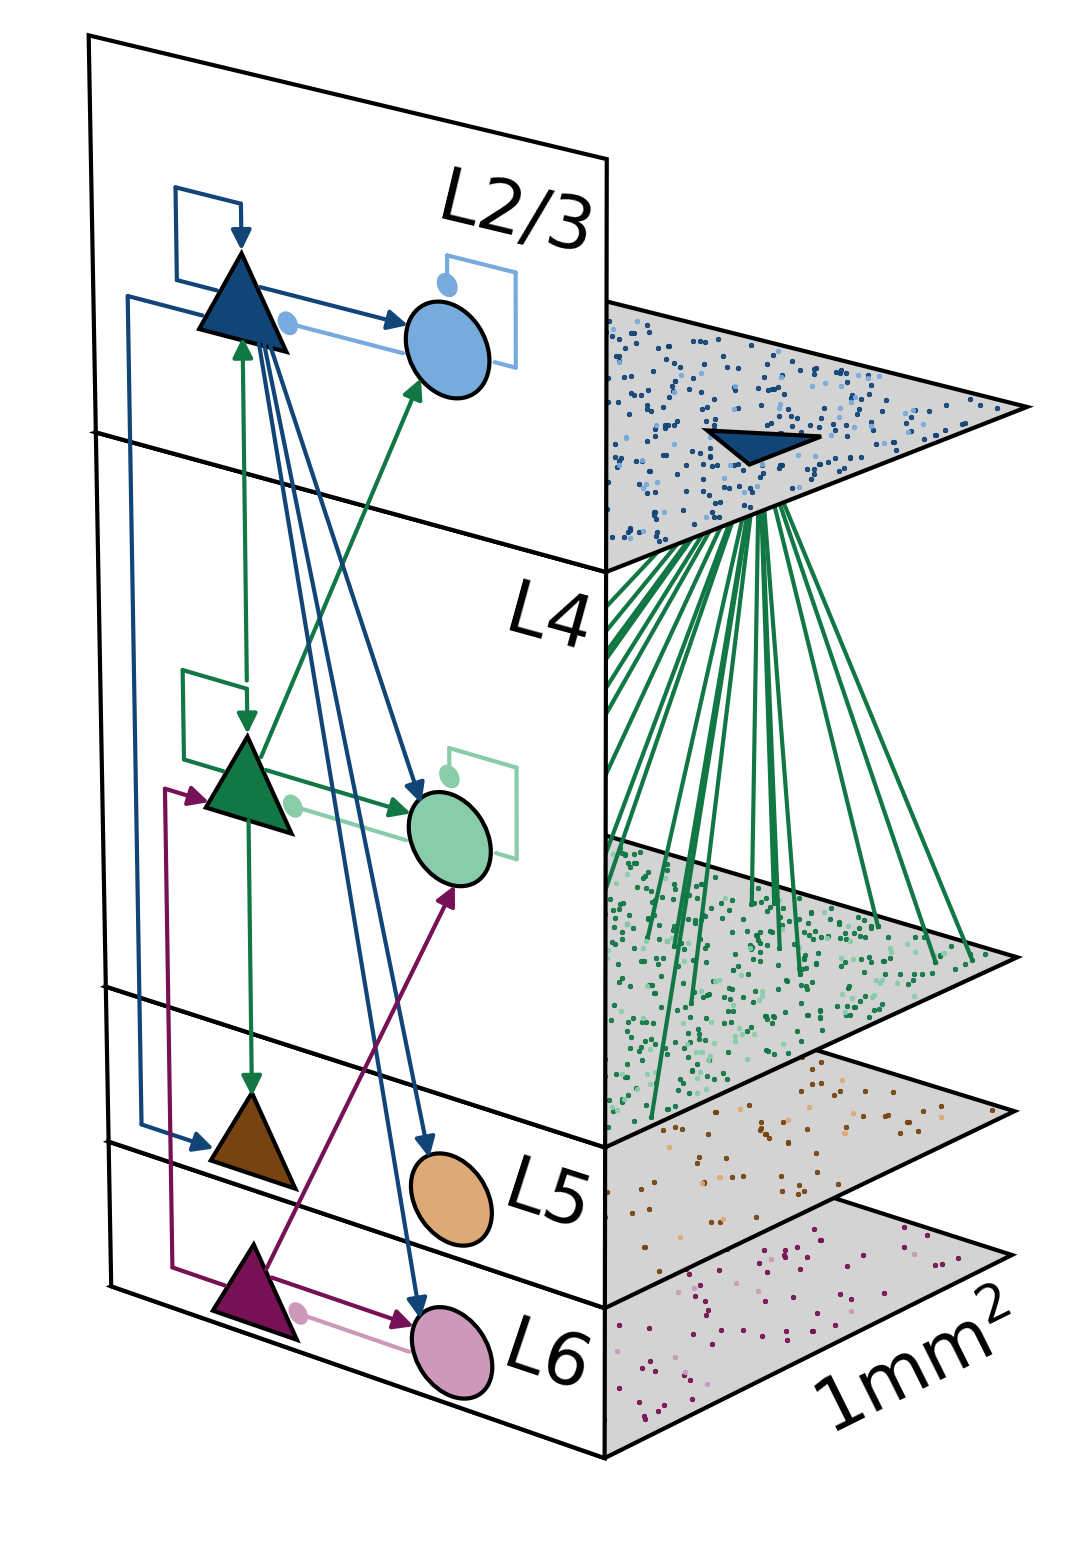
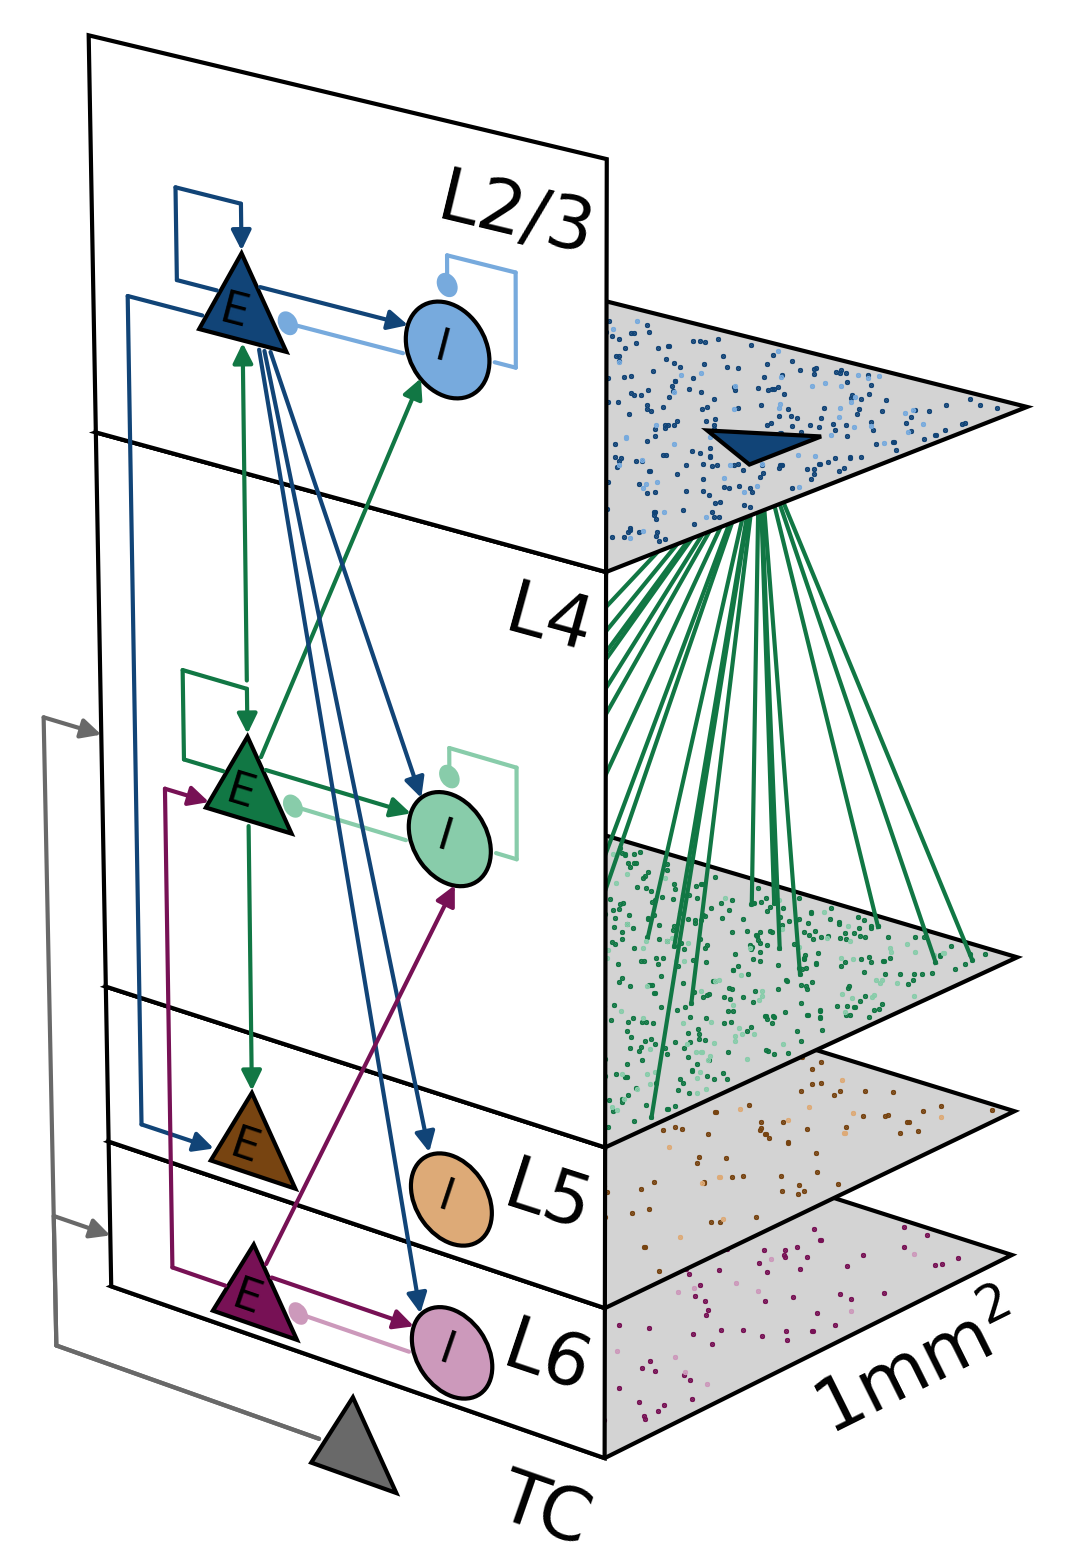
TC also for reference model

diff --git a/scripts/network_sketches.py b/scripts/network_sketches.py
@@ -236,6 +236,13 @@ def plot_network_model_sketch(gs, model='upscaled'):
         ax.add_patch(inh)
         art3d.pathpatch_2d_to_3d(inh, z=0, zdir="y")
 
+        ax.text(x=ctr_exc[0]-0.015, y=0, z=z_lctrs[i]-0.03, s='E', zdir='x',
+                fontsize=matplotlib.rcParams['font.size'] * 1.5,
+                horizontalalignment='center', verticalalignment='center')
+        ax.text(x=ctr_inh[0]-0.01, y=0, z=z_lctrs[i], s='I', zdir='x',
+                fontsize=matplotlib.rcParams['font.size'] * 1.5,
+                horizontalalignment='center', verticalalignment='center')
+
         # excitatory connections ###############################################
 
         # same layer, E -> E
@@ -300,7 +307,7 @@ def plot_network_model_sketch(gs, model='upscaled'):
 
     # L4E -> L2/3E
     ax.arrow3D(x=ctr_exc[0], y=0, z=z_lctrs[1] + 0.16,
-               dx=0, dy=0, dz=0.63,
+               dx=0, dy=0, dz=0.62,
                mutation_scale=mutation_scale,
                arrowstyle='-|>',
                color=pop_colors[2])
@@ -319,8 +326,8 @@ def plot_network_model_sketch(gs, model='upscaled'):
                color=pop_colors[2])
 
     # L4E -> L5E
-    ax.arrow3D(x=ctr_exc[0], y=0, z=z_lctrs[1] - 0.06,
-               dx=0, dy=0, dz=-0.53,
+    ax.arrow3D(x=ctr_exc[0], y=0, z=z_lctrs[1] - 0.07,
+               dx=0, dy=0, dz=-0.51,
                mutation_scale=mutation_scale,
                arrowstyle='-|>',
                color=pop_colors[2])
@@ -333,61 +340,60 @@ def plot_network_model_sketch(gs, model='upscaled'):
                                 color=pop_colors[2], sign='exc')
 
     # L2/3E -> L4I
-    ax.arrow3D(x=ctr_exc[0]+0.05, y=0, z=z_lctrs[0] - 0.06,
-               dx=0.3, dy=0, dz=-0.75,
+    ax.arrow3D(x=ctr_exc[0]+0.05, y=0, z=z_lctrs[0] - 0.07,
+               dx=0.3, dy=0, dz=-0.73,
                mutation_scale=mutation_scale,
                arrowstyle='-|>',
                color=pop_colors[0])
 
     # L2/3E -> L5I
-    ax.arrow3D(x=ctr_exc[0]+0.04, y=0, z=z_lctrs[0] - 0.06,
-               dx=0.32, dy=0, dz=-1.38,
+    ax.arrow3D(x=ctr_exc[0]+0.04, y=0, z=z_lctrs[0] - 0.07,
+               dx=0.32, dy=0, dz=-1.36,
                mutation_scale=mutation_scale,
                arrowstyle='-|>',
                color=pop_colors[0])
 
     # L2/3E -> L5I
-    ax.arrow3D(x=ctr_exc[0]+0.03, y=0, z=z_lctrs[0] - 0.06,
-               dx=0.31, dy=0, dz=-1.68,
+    ax.arrow3D(x=ctr_exc[0]+0.03, y=0, z=z_lctrs[0] - 0.07,
+               dx=0.31, dy=0, dz=-1.66,
                mutation_scale=mutation_scale,
                arrowstyle='-|>',
                color=pop_colors[0])
 
     # L6E -> L4I
-    ax.arrow3D(x=ctr_exc[0]+0.017, y=0, z=z_lctrs[3] + 0.02,
-               dx=0.4, dy=0, dz=0.84,
+    ax.arrow3D(x=ctr_exc[0]+0.017, y=0, z=z_lctrs[3] + 0.03,
+               dx=0.4, dy=0, dz=0.83,
                mutation_scale=mutation_scale,
                arrowstyle='-|>',
                color=pop_colors[6])
 
-    if model == 'upscaled':
-        # thalamus
-        y_tc = -0.15
-        tc = RegularPolygon(xy=(0.5, y_tc), radius=0.1, numVertices=3, orientation=0,
-                            facecolor=pop_colors[-1],
-                            edgecolor='k')
-        ax.add_patch(tc)
-        art3d.pathpatch_2d_to_3d(tc, z=0, zdir="y")
+    # thalamus #################################################################
+    y_tc = -0.15
+    tc = RegularPolygon(xy=(0.5, y_tc), radius=0.1, numVertices=3, orientation=0,
+                        facecolor=pop_colors[-1],
+                        edgecolor='k')
+    ax.add_patch(tc)
+    art3d.pathpatch_2d_to_3d(tc, z=0, zdir="y")
 
-        # TC to L4 and L6
-        draw_edge_arrow_xzplane(ax=ax, x=0.5-0.07, y=0, z=y_tc,
-                                xshift1=-0.55,
-                                zshift1=-y_tc +
-                                np.sum(layer_sizes[2:]) +
-                                layer_sizes[1]/2. + z_ctr_offset,
-                                xshift2=0.12, zshift2=0,
-                                color=pop_colors[-1], sign='exc')
-        draw_edge_arrow_xzplane(ax=ax, x=0.5-0.07, y=0, z=y_tc,
-                                xshift1=-0.55,
-                                zshift1=-y_tc +
-                                layer_sizes[3]/2. + z_ctr_offset,
-                                xshift2=0.12, zshift2=0,
-                                color=pop_colors[-1], sign='exc')
+    # TC to L4 and L6
+    draw_edge_arrow_xzplane(ax=ax, x=0.5-0.07, y=0, z=y_tc,
+                            xshift1=-0.55,
+                            zshift1=-y_tc +
+                            np.sum(layer_sizes[2:]) +
+                            layer_sizes[1]/2. + z_ctr_offset,
+                            xshift2=0.12, zshift2=0,
+                            color=pop_colors[-1], sign='exc')
+    draw_edge_arrow_xzplane(ax=ax, x=0.5-0.07, y=0, z=y_tc,
+                            xshift1=-0.55,
+                            zshift1=-y_tc +
+                            layer_sizes[3]/2. + z_ctr_offset,
+                            xshift2=0.12, zshift2=0,
+                            color=pop_colors[-1], sign='exc')
 
-        # thalamus label
-        ax.text(x=1.-0.01, y=0, z=0-0.01, zdir='x',
-                s='TC', fontsize=matplotlib.rcParams['font.size']*2.5,
-                horizontalalignment='right', verticalalignment='top')
+    # thalamus label
+    ax.text(x=1.-0.01, y=0, z=0-0.01, zdir='x',
+            s='TC', fontsize=matplotlib.rcParams['font.size']*2.5,
+            horizontalalignment='right', verticalalignment='top')
 
     # size label ###############################################################
     if model == 'reference':
